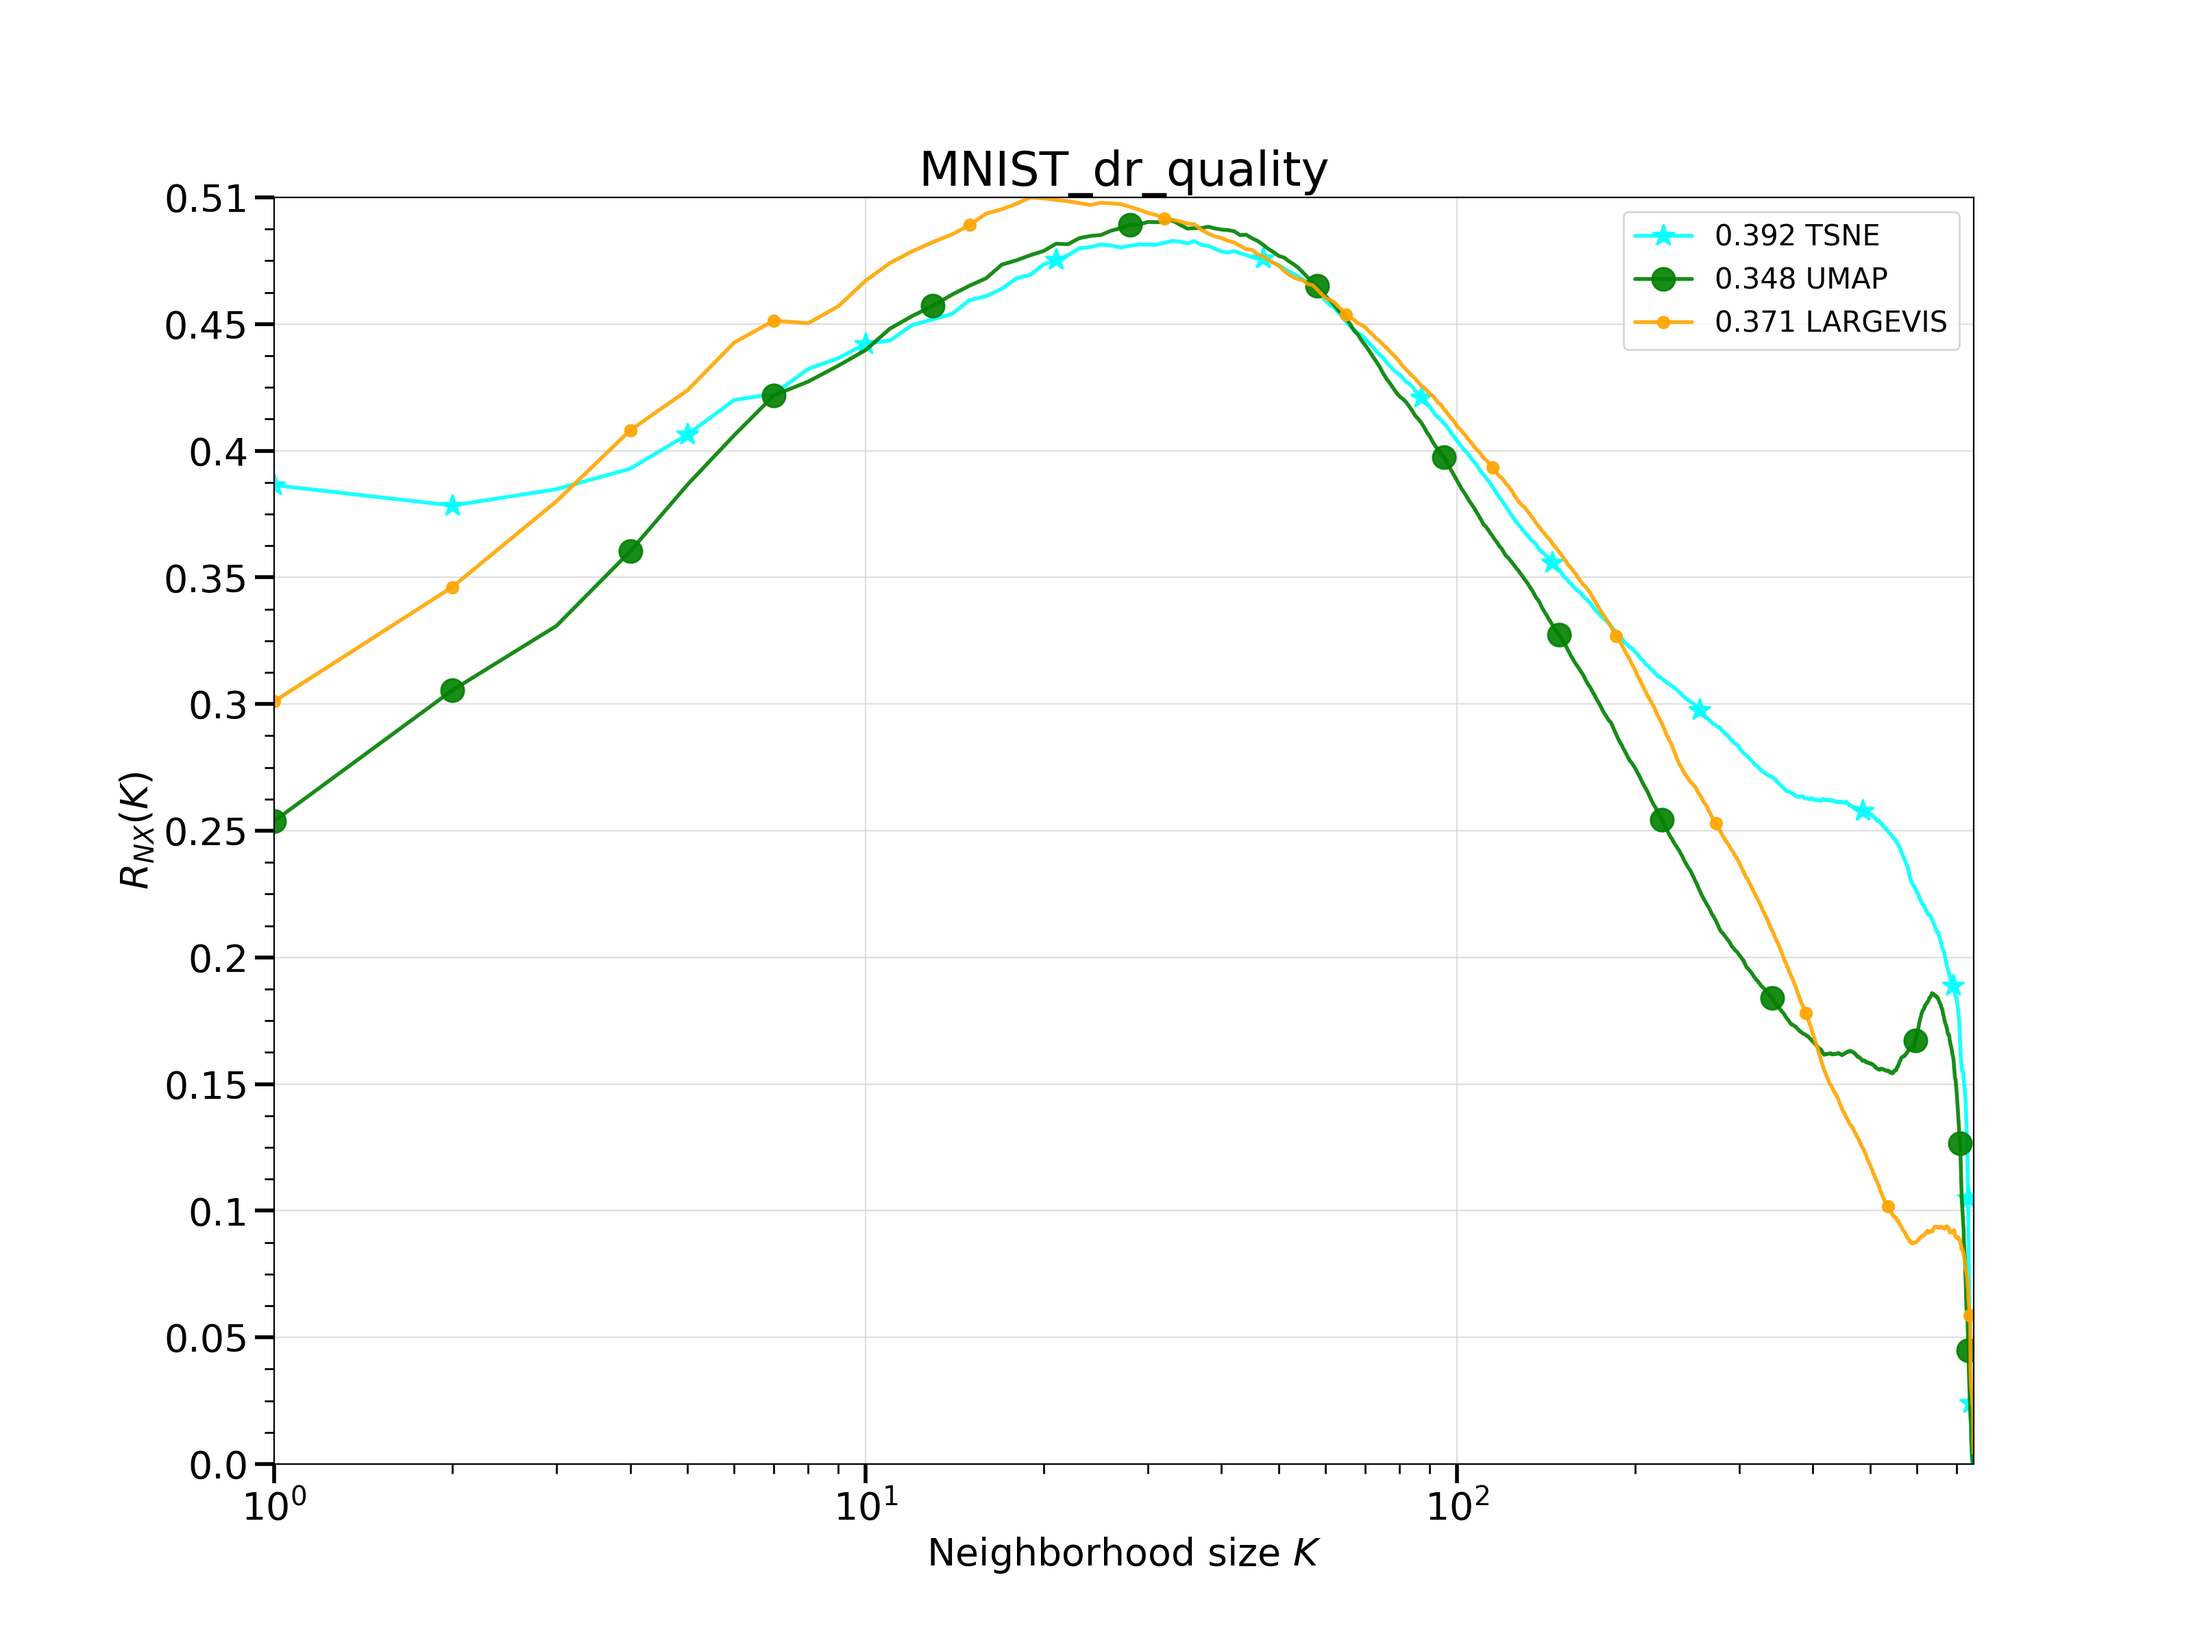
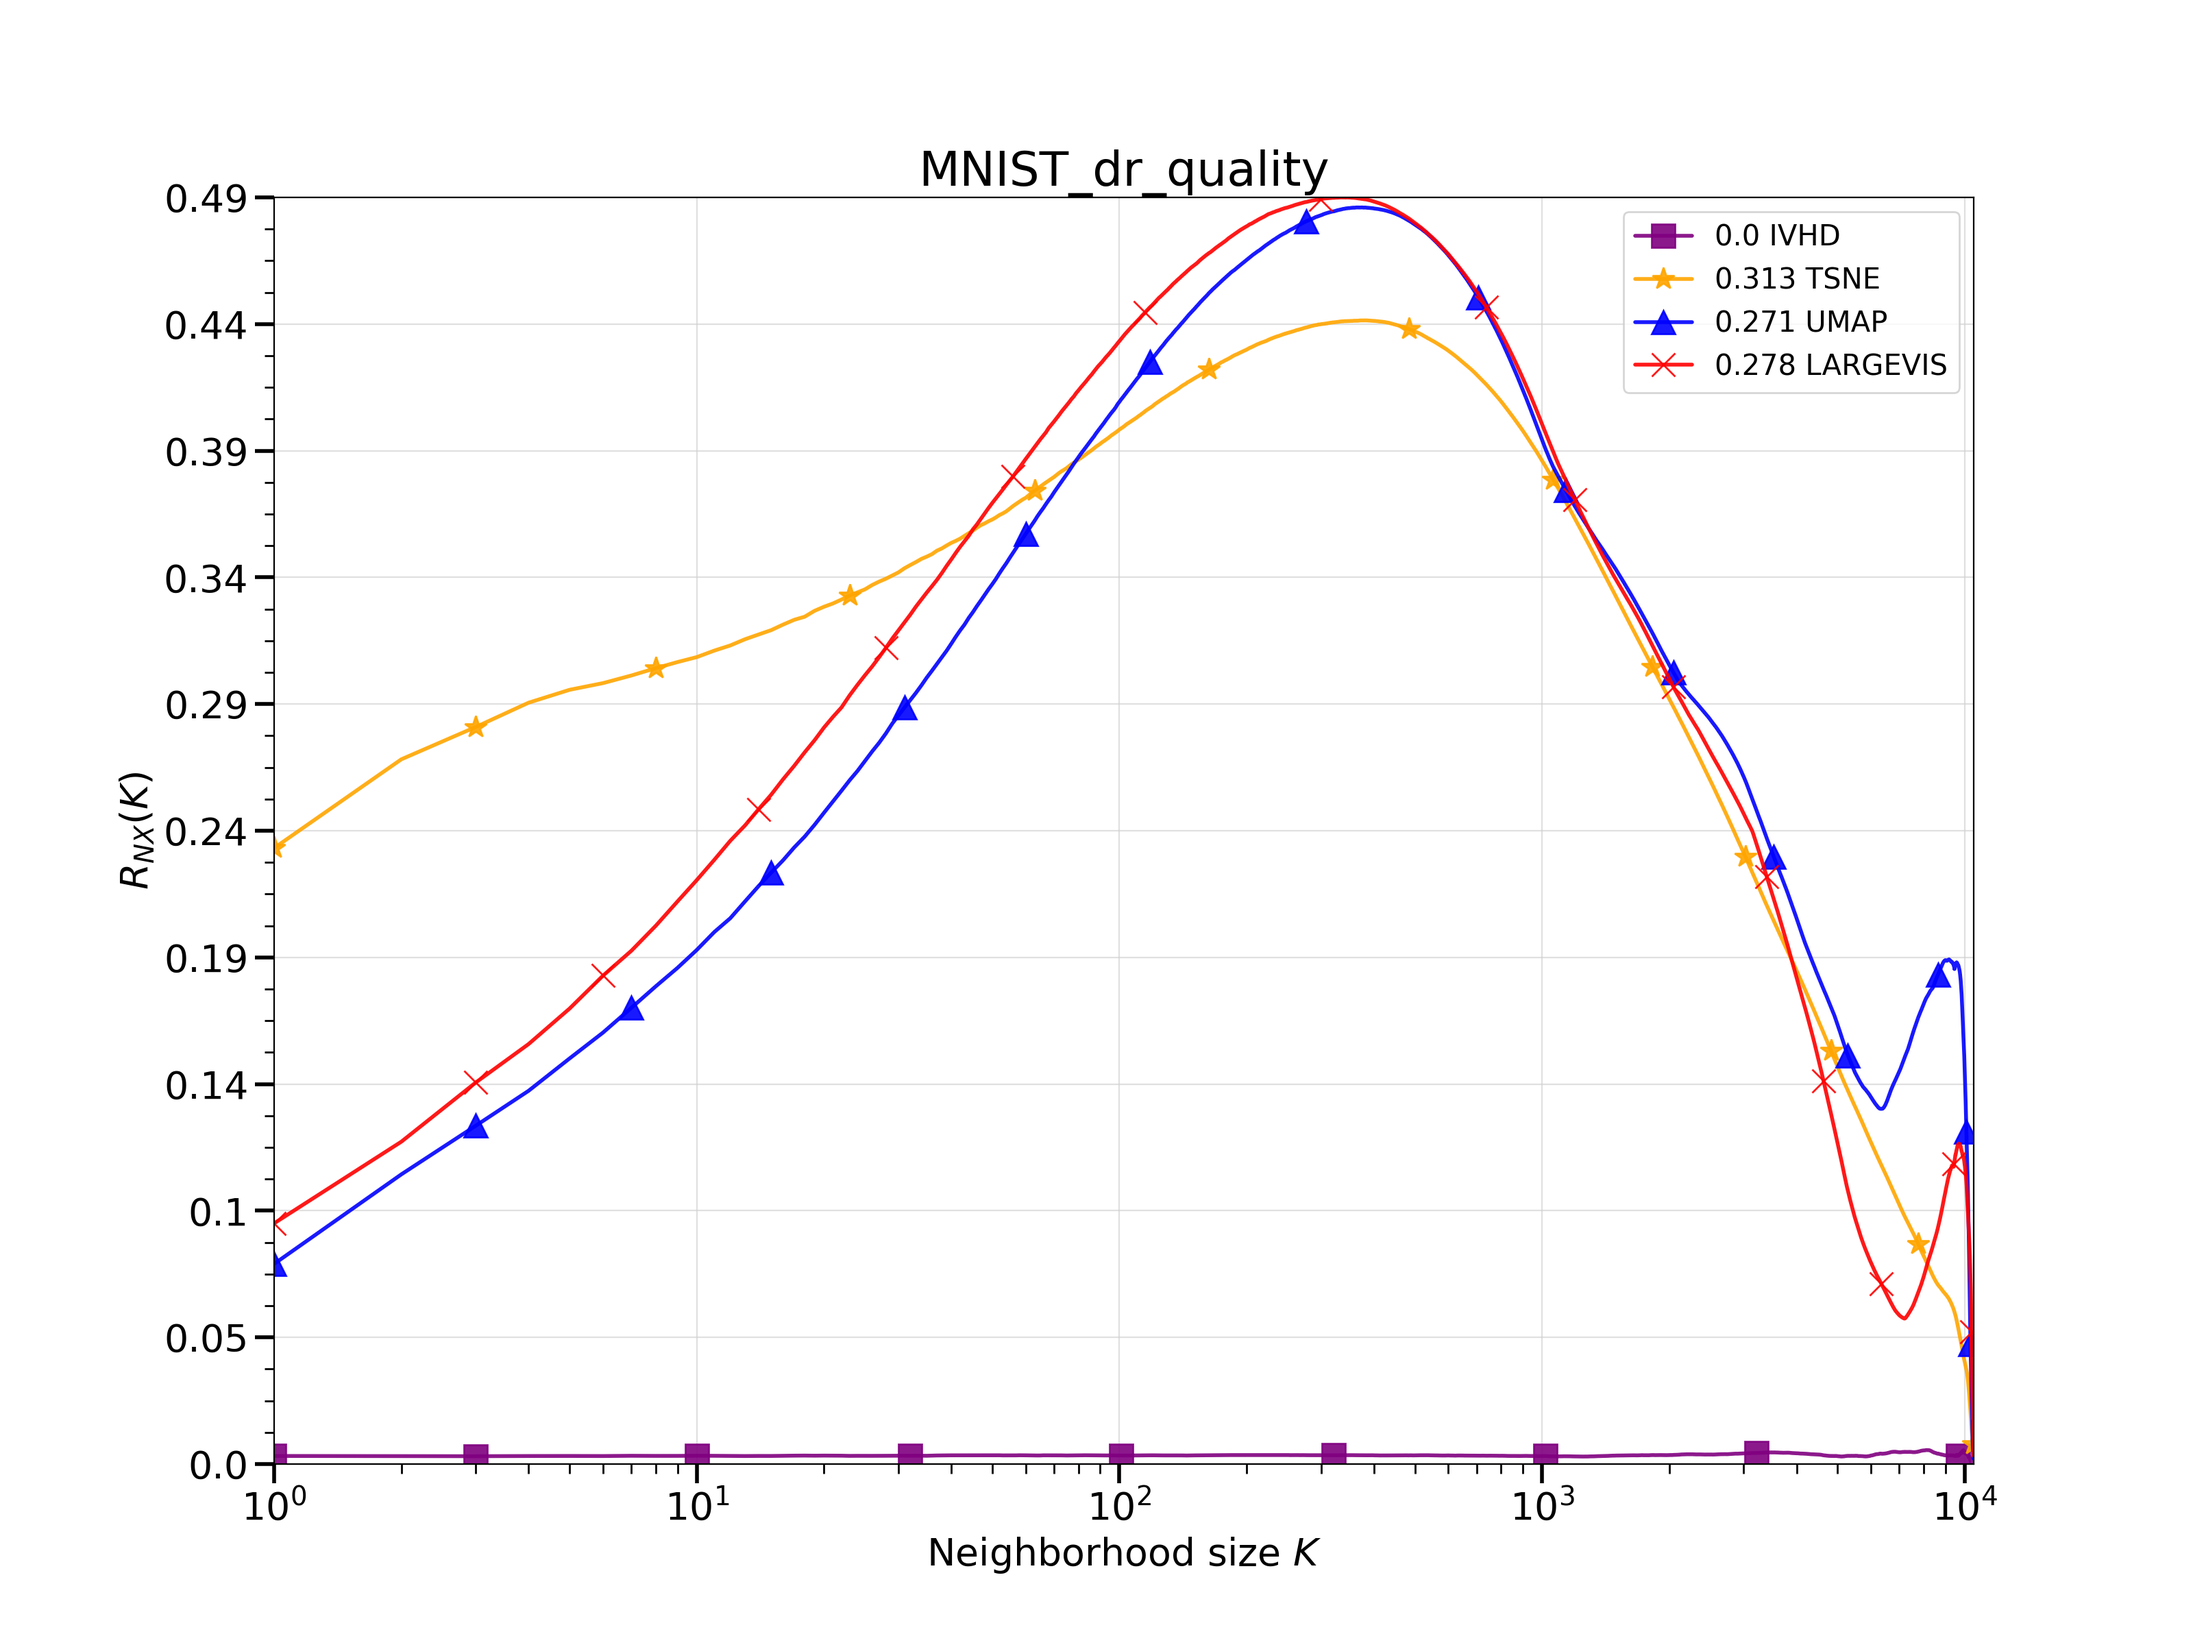
ADD: ALl methods run on the whole mnist

diff --git a/bin/main.py b/bin/main.py
@@ -1,16 +1,16 @@
 import utils
 from data_preprocessing import mnist, tng, reuters
-from data_embedding import tsne, umap, largevis
+from data_embedding import tsne, umap, largevis, ivhd
 from metrics.local_score import LocalMetric
 from metrics.time_score import TimeScore
 from metrics.clustering_score import ClusterScore
-from metrics.spearman_score import SpearmanScore
+# from metrics.spearman_score import SpearmanScore
 
 
-methods = [tsne, umap, largevis]
-method_names = ["TSNE", "UMAP", "LARGEVIS"]
-datasets = [tng, mnist, reuters]
-dataset_names = ["20NG", "MNIST", "REUTERS"]
+methods = [ivhd, tsne, umap, largevis]
+method_names = ["IVHD", "TSNE", "UMAP", "LARGEVIS"]
+datasets = [mnist]
+dataset_names = ["MNIST"]
 
 
 if __name__ == '__main__':
@@ -25,7 +25,7 @@ if __name__ == '__main__':
         local_metric = LocalMetric()
         time_metric = TimeScore(dataset_name)
         cluster_metric = ClusterScore(dataset_name)
-        spearman_metric = SpearmanScore(dataset_name, values)
+        # spearman_metric = SpearmanScore(dataset_name, values) # removing because it's taking forever to calculate
 
         for method, method_name in zip(methods, method_names):
             print(f"{method_name} embedding...")
@@ -41,10 +41,10 @@ if __name__ == '__main__':
                 method_name=method_name
             )
             cluster_metric.calculate_cluster_score(output, labels, method_name)
-            spearman_metric.calculate_score(output, method_name)
+            # spearman_metric.calculate_score(output, method_name)
 
         # Metrics comparison
         local_metric.visualize(dataset_name)
         time_metric.visualize()
         cluster_metric.visualize()
-        spearman_metric.visualize()
+        # spearman_metric.visualize()

diff --git a/bin/data_embedding/ivhd.py b/bin/data_embedding/ivhd.py
@@ -30,13 +30,29 @@ def save_target_as_csv(data, filename, with_shape=True):
                 f.write('\n')
 
 
-def embed(dataset, labels, graph_name, name):
-    core_path = './viskit/viskit_offline'
-    save_data_as_csv(dataset, 'input_X.csv')
-    save_target_as_csv(labels, 'input_Y.csv', False)
-    command = f'.${core_path}/viskit_offline input_X.csv output_Y.csv graphs/{graph_name} output.csv'
-    os.system(command)
-    output = pd.read_csv(f'output.csv').iloc[:, :2].to_numpy()
-    utils.save_plot_2d_scatter(output, labels, f"{name}_ivhd.png")
+graph_names = {
+    "MNIST": "mnist_cosine.bin"
+}
 
-    return output
+arguments = {
+    "MNIST": '4000 2 1 1 0 0 0.01 force-directed'
+}
+
+input_x = 'input_X.csv'
+input_y = 'input_Y.csv'
+output = 'output.csv'
+
+
+def embed(dataset, labels, name):
+    core_path = './viskit/viskit_offline'
+    graph_name = graph_names[name]
+    argument = arguments[name]
+    save_data_as_csv(dataset, f'{core_path}/input/{input_x}')
+    save_target_as_csv(labels, f'{core_path}/input/{input_y}', False)
+    command = f'{core_path}/viskit_offline {core_path}/input/{input_x} ' \
+              f'{core_path}/input/{input_y} {core_path}/graphs/{graph_name} {core_path}/output/{output} {argument}'
+    os.system(command)
+    res = pd.read_csv(f'{core_path}/output/{output}').iloc[:, :2].to_numpy()
+    utils.save_plot_2d_scatter(res, labels, f"{name}_ivhd.png")
+
+    return res

diff --git a/README.md b/README.md
@@ -38,8 +38,8 @@ Compile and put compiled version inside `Largevis` directory.
 
 ```
 git clone https://github.com/lferry007/LargeVis.git
-cd LargeVis
-g++ LargeVis.cpp main.cpp -o LargeVis -lm -pthread -lgsl -lgslcblas -Ofast [-march=native | -mcpu=apple-m1] -ffast-math -L<PATH TO GSL LIB> -I<PATH TO GSL INCLUDE>
+cd LargeVis/Linux
+g++ LargeVis.cpp main.cpp -o LargeVis -lm -pthread -lgsl -lgslcblas -Ofast -ffast-math
 ```
 
 ## IVHD
